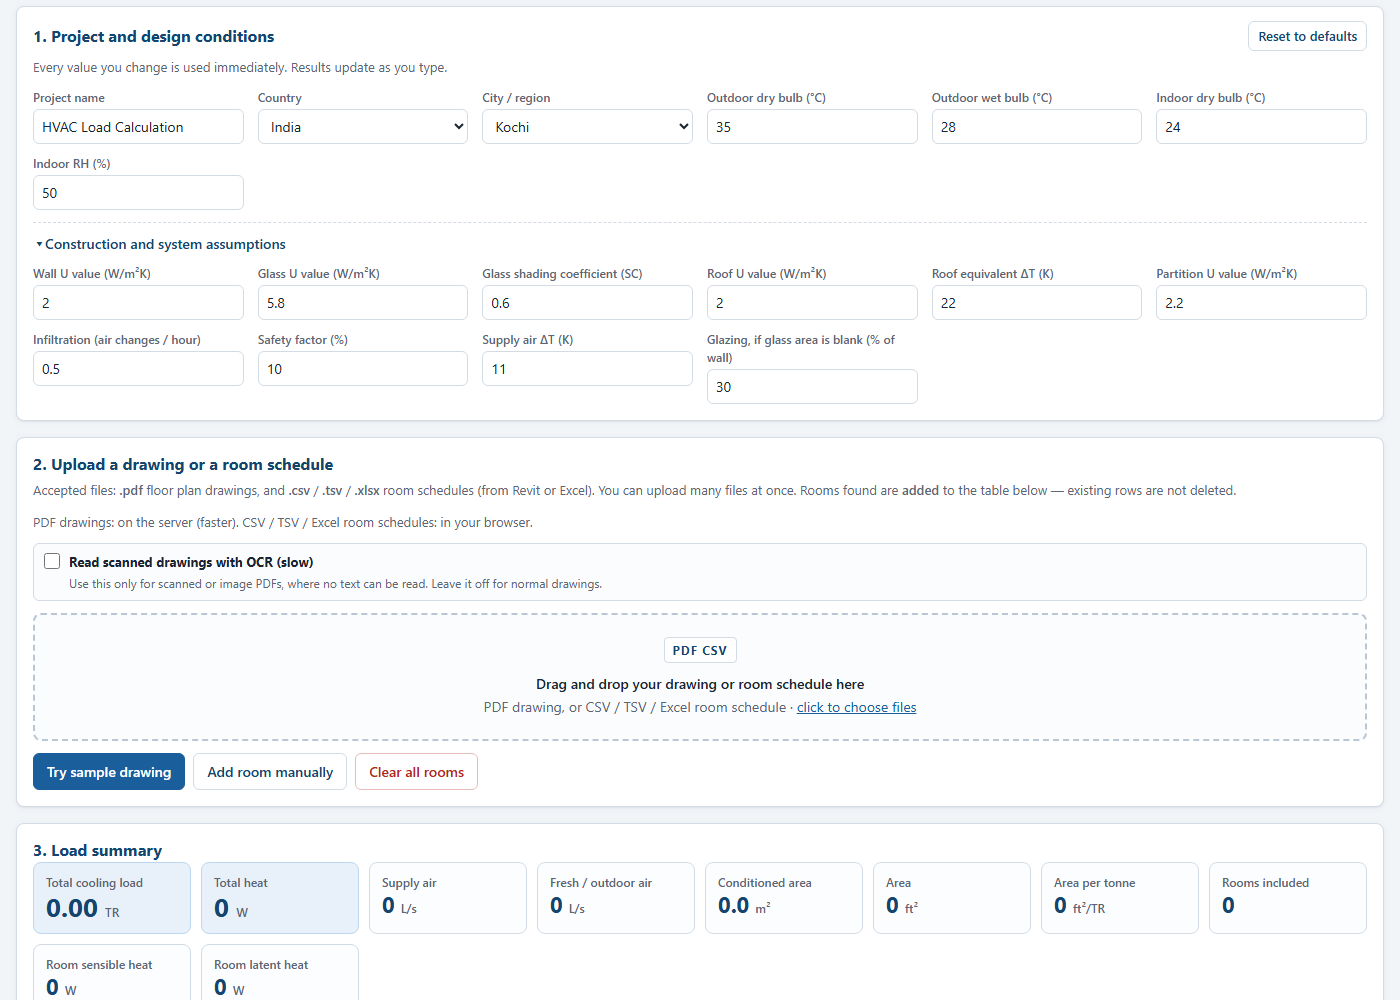
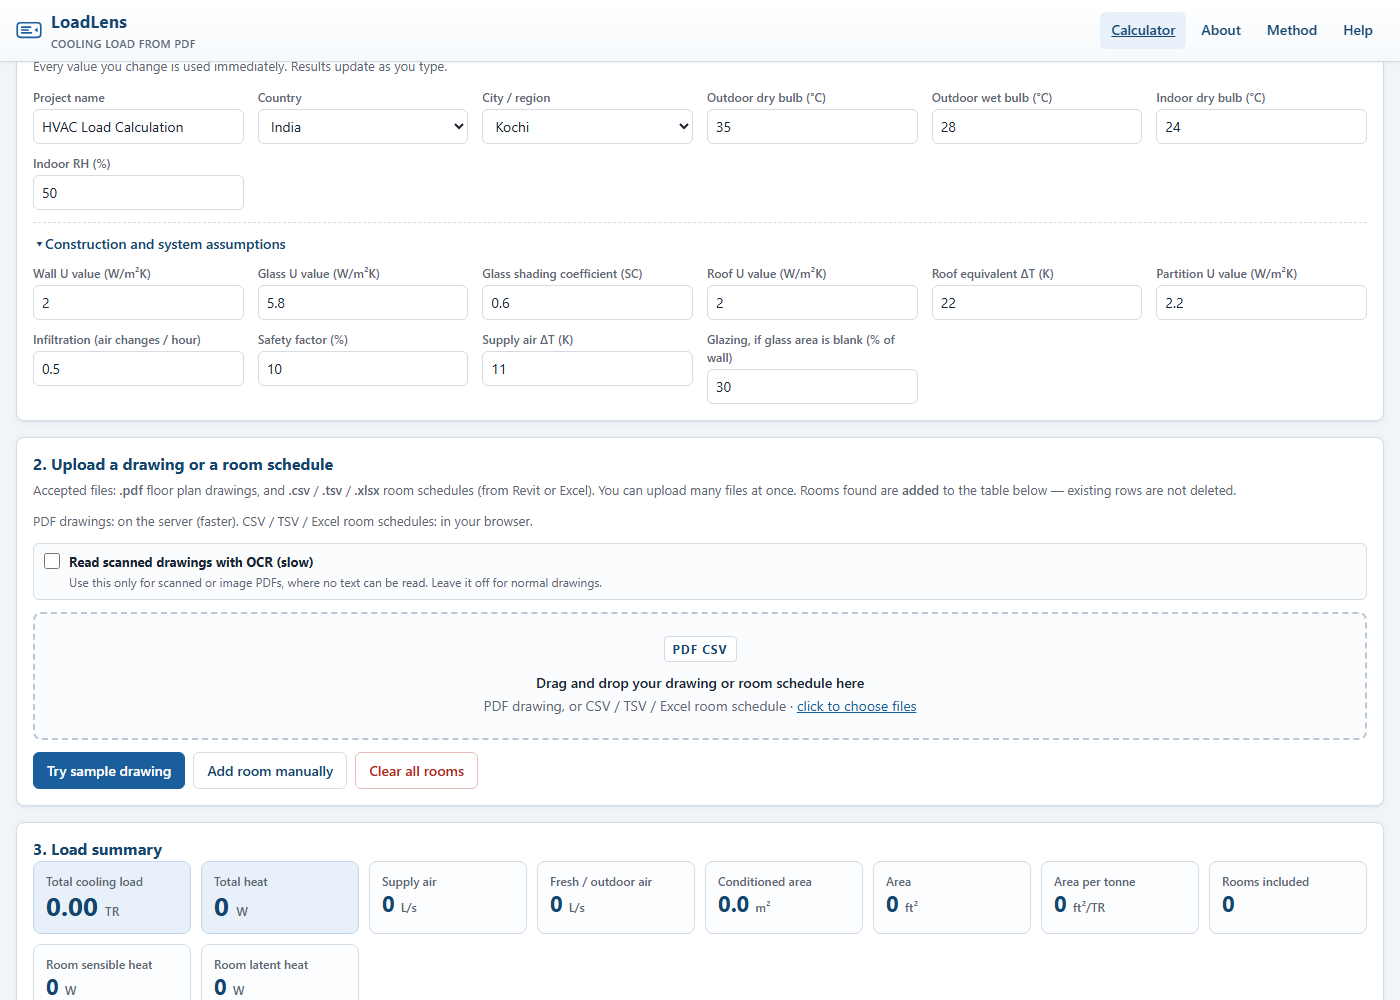
calculator header now matches the other pages
- the injected nav uses the same markup, classes and link order as the marketing pages:
  white sticky bar, SVG brand mark, 'LoadLens / COOLING LOAD FROM PDF', links
  Calculator (marked current) . About . Method . Help
- css/style.css .app-nav* restyled to the landing header values (gradient, border, 56px min
  height, 14px/600 links, accent-soft hover) plus line-height 1.6 so the height is identical
- tools/update-app-nav.mjs template updated to match (it would otherwise revert the look)
- verified with a header-by-header style comparison (identical on app.html, index.html,
  method.html) and screenshots; 26 browser + 35 landing + 47 nav checks pass, screenshots
  regenerated

diff --git a/css/style.css b/css/style.css
@@ -399,41 +399,89 @@ table.data-table { border-collapse: separate; border-spacing: 0; width: 100%; fo
   table.data-table { font-size: 11px; }
   .data-table thead th { position: static; }
 }
-/* ------------------------------------------- shared top navigation (all pages) */
+/* --------------------------- shared top navigation (all pages, identical look)
+   The calculator page reuses the marketing header's styling: same white sticky bar, same
+   SVG brand mark, same link order and colours, so the header does not change between pages.
+   .app-nav* is kept as the class prefix so js/nav.js finds it. */
 .app-nav {
-  background: var(--accent-dark);
-  color: #fff;
-  font-size: 14px;
+  position: sticky;
+  top: 0;
+  z-index: 20;
+  line-height: 1.6;          /* same as the marketing pages, so the header height matches */
+  background: linear-gradient(180deg, #ffffff, #f6f9fc);
+  border-bottom: 1px solid var(--line);
+  box-shadow: 0 1px 3px rgba(20, 40, 70, .05);
 }
 .app-nav-inner {
   display: flex;
   align-items: center;
-  gap: 18px;
+  justify-content: space-between;
+  gap: 14px;
+  min-height: 56px;
   flex-wrap: wrap;
-  min-height: 40px;
-  padding-top: 4px;
-  padding-bottom: 4px;
+  padding-top: 8px;
+  padding-bottom: 8px;
 }
 .app-nav-brand {
-  color: #fff;
-  font-weight: 700;
-  letter-spacing: .2px;
-  text-decoration: none;
-}
-.app-nav-links {
   display: flex;
-  gap: 4px;
-  flex-wrap: wrap;
-  margin-left: auto;
-}
-.app-nav-links a {
-  color: #dce9f6;
+  align-items: center;
+  gap: 9px;
+  font-weight: 700;
+  color: var(--accent-dark);
   text-decoration: none;
-  padding: 5px 10px;
-  border-radius: 6px;
 }
-.app-nav-links a:hover { background: rgba(255, 255, 255, .14); color: #fff; }
-.app-nav-links a.here { background: rgba(255, 255, 255, .2); color: #fff; font-weight: 600; }
+.app-nav-brand .brand-mark { color: var(--accent); flex: 0 0 auto; }
+.app-nav-brand .brand-text { font-size: 17px; letter-spacing: .2px; white-space: nowrap; }
+.app-nav-brand .brand-sub { display: block; font-size: 11px; font-weight: 600; color: var(--ink-soft); letter-spacing: .4px; }
+.app-nav-links { display: flex; align-items: center; gap: 4px; flex-wrap: wrap; }
+.app-nav-links a {
+  display: inline-block;
+  padding: 7px 11px;
+  border-radius: 6px;
+  font-size: 14px;
+  font-weight: 600;
+  color: var(--accent-dark);
+  text-decoration: none;
+}
+.app-nav-links a:hover { background: var(--accent-soft); color: var(--accent-dark); }
+.app-nav-links a[aria-current="page"] { background: var(--accent-soft); text-decoration: underline; }
+
+/* hamburger, styled like the marketing pages' one */
+.nav-burger {
+  display: none;
+  align-items: center;
+  gap: 8px;
+  margin-left: auto;
+  padding: 7px 11px;
+  font: inherit;
+  font-size: 13.5px;
+  font-weight: 600;
+  color: var(--accent-dark);
+  background: #fff;
+  border: 1px solid var(--line);
+  border-radius: 7px;
+  cursor: pointer;
+}
+.nav-burger:hover { background: var(--accent-soft); }
+.nav-burger:focus-visible { outline: 2px solid var(--accent); outline-offset: 2px; }
+.nav-burger-bars { display: inline-flex; flex-direction: column; gap: 3px; }
+.nav-burger-bars span { display: block; width: 16px; height: 2px; background: currentColor; border-radius: 2px; }
+
+@media (max-width: 700px) {
+  nav.app-nav.js-nav .app-nav-inner { flex-wrap: wrap; }
+  nav.app-nav.js-nav .app-nav-brand { order: 1; }
+  nav.app-nav.js-nav .nav-burger { display: inline-flex; order: 2; }
+  nav.app-nav.js-nav .app-nav-links { display: none; order: 3; }
+  nav.app-nav.js-nav.nav-open .app-nav-links {
+    display: flex;
+    flex-direction: column;
+    align-items: stretch;
+    width: 100%;
+    margin: 4px 0 6px;
+    gap: 2px;
+  }
+  nav.app-nav.js-nav.nav-open .app-nav-links a { padding: 11px 12px; font-size: 15px; }
+}
 @media print { .app-nav { display: none; } }
 
 /* ------------------------------------------- hamburger menu on narrow screens */

diff --git a/app.html b/app.html
@@ -12,15 +12,22 @@
 
 
 <!-- shared top navigation (injected by tools/update-app-nav.mjs) -->
+<!-- same markup, classes and link order as the marketing pages, so the header looks identical -->
 <nav class="app-nav" aria-label="Main">
   <div class="wrap app-nav-inner">
-    <a class="app-nav-brand" href="index.html">LoadLens</a>
+    <a class="app-nav-brand" href="index.html">
+      <svg class="brand-mark" viewBox="0 0 32 32" width="26" height="26" aria-hidden="true" focusable="false">
+        <rect x="1.5" y="7" width="29" height="18" rx="4" fill="none" stroke="currentColor" stroke-width="2"/>
+        <path d="M7 12.5h11M7 16h8M7 19.5h12" stroke="currentColor" stroke-width="2" stroke-linecap="round"/>
+        <path d="M22.5 16l4.2-2.7v5.4z" fill="currentColor"/>
+      </svg>
+      <span class="brand-text">LoadLens<span class="brand-sub">COOLING LOAD FROM PDF</span></span>
+    </a>
     <span class="app-nav-links">
-      <a href="index.html">Home</a>
-      <a href="app.html" class="here" aria-current="page">Calculator</a>
+      <a href="app.html" aria-current="page">Calculator</a>
+      <a href="about.html">About</a>
       <a href="method.html">Method</a>
       <a href="help.html">Help</a>
-      <a href="about.html">About</a>
     </span>
   </div>
 </nav>
